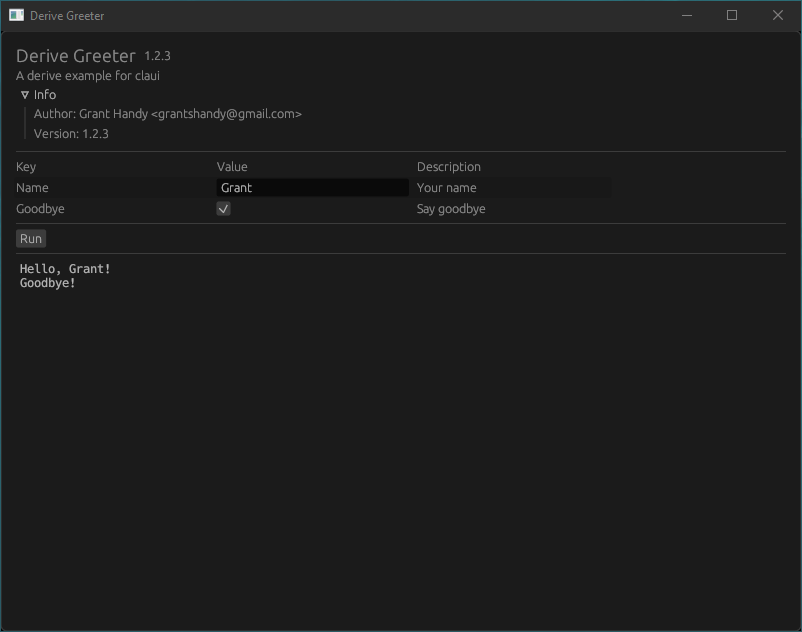
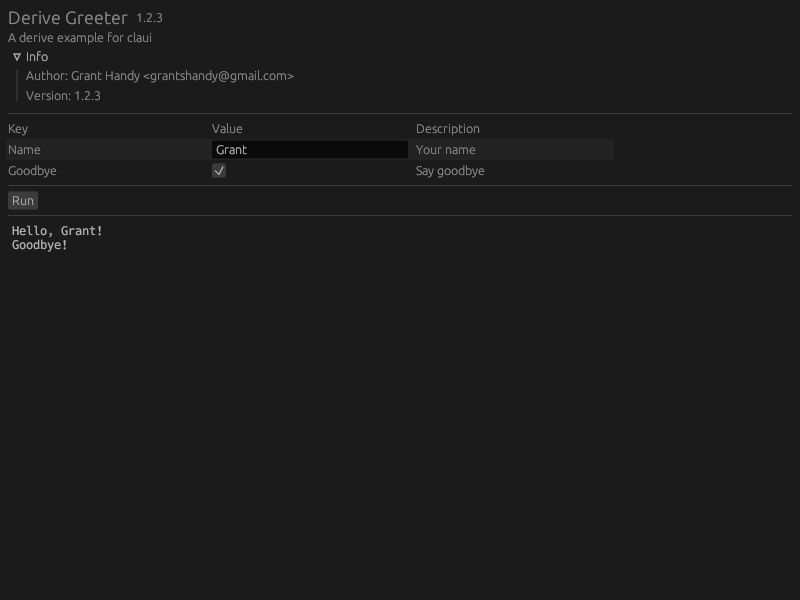
0.1.0 for rustc 1.61.0

diff --git a/src/ui.rs b/src/ui.rs
@@ -1,37 +1,30 @@
-use eframe::{
-    egui::{
-        style::Margin, Button, CentralPanel, Checkbox, CollapsingHeader, Context, Frame, Grid,
-        RichText, ScrollArea, Style, TextEdit, Ui,
-    },
-    epi,
+use eframe::egui::{
+    Button, CentralPanel, Checkbox, CollapsingHeader, Context, Grid, RichText, ScrollArea,
+    TextEdit, Ui, Visuals,
 };
 
 use crate::{misc::capitalize, Claui};
 
-impl epi::App for Claui {
-    fn name(&self) -> &str {
-        self.app_info.name.as_str()
-    }
-
-    fn update(&mut self, ctx: &Context, frame: &epi::Frame) {
+impl eframe::App for Claui {
+    fn update(&mut self, ctx: &Context, frame: &mut eframe::Frame) {
         self.update_buffer();
         self.update_thread_state();
 
-        CentralPanel::default()
-            .frame(Frame::window(&Style::default()).margin(Margin::same(15.0)))
-            .show(ctx, |ui| {
-                self.add_title(ui);
-                self.add_options(ui);
-                self.add_actions_bar(ui);
-                self.add_results(ui);
-            });
+        ctx.set_visuals(Visuals::dark());
+
+        CentralPanel::default().show(ctx, |ui| {
+            self.add_title(ui);
+            self.add_options(ui);
+            self.add_actions_bar(ui);
+            self.add_results(ui);
+        });
 
         // Resize the native window to be just the size we need it to be:
         frame.set_window_size(ctx.used_size());
 
         // We do constant repainting while its running in order to show the output at correct timing.
         if self.is_running {
-            frame.request_repaint();
+            ctx.request_repaint();
         }
     }
 }

diff --git a/src/lib.rs b/src/lib.rs
@@ -77,11 +77,14 @@ use clap::{ArgMatches, Command};
 use misc::{AppInfo, ArgState};
 use shh::{ShhStderr, ShhStdout};
 
+pub use clap;
+
 /// Run a clap [`Command`](egui::Command) as a GUI
 pub fn run<F: Fn(&ArgMatches) + Send + Sync + 'static>(app: Command<'static>, func: F) -> ! {
     eframe::run_native(
-        Box::new(Claui::new(app, Arc::new(func))),
+        app.clone().get_name(),
         eframe::NativeOptions::default(),
+        Box::new(|_cc| Box::new(Claui::new(app, Arc::new(func)))),
     )
 }
 

diff --git a/examples/panic.rs b/examples/panic.rs
@@ -1,0 +1,9 @@
+use claui::clap::Command;
+
+fn main() {
+    let command = Command::new("Panic Example");
+
+    claui::run(command, |_| {
+        panic!("This is a panic message.");
+    });
+}

diff --git a/README.md b/README.md
@@ -1,9 +1,7 @@
 # claui
-*Command Line Argument (to graphical) User Interface*
+*Command Line Arguments (to graphical) User Interface*
 
-**Claui will be on crates.io after [#90470](https://github.com/rust-lang/rust/issues/90470) is stabilized.**
-
-A GUI generator for [`clap`](https://github.com/clap-rs/clap) using [`egui`](https://github.com/emilk/egui).
+A GUI generator for [`clap`](https://github.com/clap-rs/clap) that uses [`egui`](https://github.com/emilk/egui).
 
 ![fizzbuzz screenshot](./screenshots/fizzbuzz.png)
 
